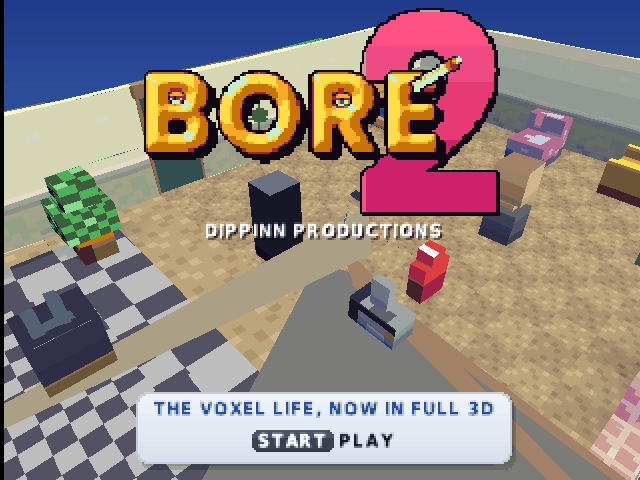
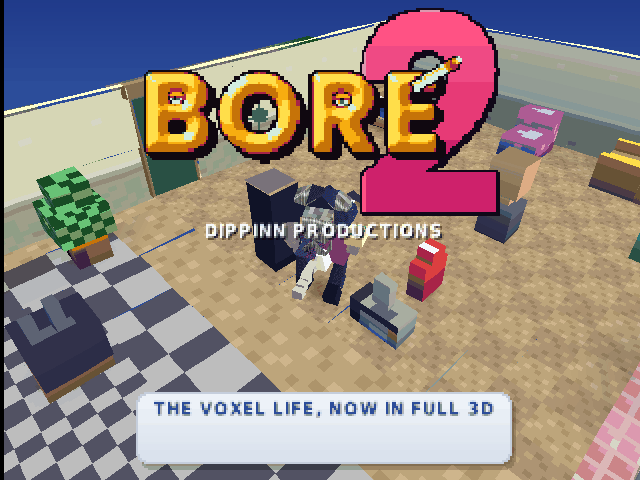
Dreamcast: SAN BOREAS matches the PS1 (side by side with DuckStation); fixed the GTE three-vertex load, the PS1 big-triangle rule, sprite-cell set-mask, GTE-exact ApplyMatrixLV/CompMatrixLV; RAM log dump in dcrun
Claude-Session: https://claude.ai/code/session_01HmRg38Ho1eHKsYp7LCd8R6

diff --git a/ports/dreamcast/dc_gpu.c b/ports/dreamcast/dc_gpu.c
@@ -13,6 +13,14 @@
 #include <psxgpu.h>
 
 #define SCALE 2.0f
+// a text log in RAM (tools/dcrun.c dumps the RAM: find "DCLOG{"), for looking at what the GPU was given
+char dc_log[65536] = "DCLOG{"; static int dc_log_n = 6;
+#include <stdarg.h>
+void dc_logf(const char *f, ...) { if (dc_log_n > 65000) return; va_list a; va_start(a, f); dc_log_n += vsnprintf(dc_log + dc_log_n, 65530 - dc_log_n, f, a); va_end(a); }
+#ifndef DC_DUMP
+#define DC_DUMP -1
+#endif
+int dc_dump_frame = DC_DUMP;   // (a test build: -DDC_DUMP=N logs frame N's big polygons)
 static uint16_t vram[512][1024] __attribute__((aligned(32)));
 static uint32_t page_gen[2][16];          // bumped when VRAM under a 64x256 page changes
 
@@ -110,7 +118,7 @@ int dc_prims_last;
 
 // drawing state (the GP0 E1..E6 commands and the DRAWENV)
 static DRAWENV cur_env; static int env_set;
-static int dm_tpage = 0x0a, ofs_x, ofs_y, off_screen;
+static int dm_tpage = 0x0a, ofs_x, ofs_y, off_screen, mask_set;
 static int area_x0, area_y0, area_x1 = 1023, area_y1 = 511;
 static uint32_t bg_rgb;
 
@@ -125,8 +133,22 @@ static inline uint32_t flat_col(uint32_t c) { return 0xff000000u | (c & 255) << 
 
 // the software rasteriser for drawing away from the screen (sprite cells): flat / gouraud / textured triangles into the VRAM copy
 static void sw_tri(const int *x, const int *y, const uint32_t *c, const int *u, const int *v, int textured, int tpage, int clut, int raw, int semi);
+static inline int tri_ok(int x0, int y0, int x1, int y1, int x2, int y2) {
+    int mnx = x0 < x1 ? (x0 < x2 ? x0 : x2) : (x1 < x2 ? x1 : x2), mxx = x0 > x1 ? (x0 > x2 ? x0 : x2) : (x1 > x2 ? x1 : x2);
+    int mny = y0 < y1 ? (y0 < y2 ? y0 : y2) : (y1 < y2 ? y1 : y2), mxy = y0 > y1 ? (y0 > y2 ? y0 : y2) : (y1 > y2 ? y1 : y2);
+    return mxx - mnx < 1024 && mxy - mny < 512;
+}
 
 static void emit(int n, const int *x, const int *y, const uint32_t *col, const int *u, const int *v, int textured, int tpage, int clut, int raw, int semi, int abr) {
+    if (n == 4 && !off_screen) {   // the PS1 GPU skips a triangle wider than 1023 or taller than 511 pixels: a quad is two of them
+        int a = tri_ok(x[0], y[0], x[1], y[1], x[2], y[2]), b = tri_ok(x[1], y[1], x[2], y[2], x[3], y[3]);
+        if (!a && !b) return;
+        if (!a || !b) {
+            int o = a ? 0 : 1, x3[3], y3[3], u3[3], v3[3]; uint32_t c3[3];
+            for (int k = 0; k < 3; k++) { x3[k] = x[o + k]; y3[k] = y[o + k]; c3[k] = col[o + k]; if (textured) { u3[k] = u[o + k]; v3[k] = v[o + k]; } }
+            emit(3, x3, y3, c3, u3, v3, textured, tpage, clut, raw, semi, abr); return;
+        }
+    } else if (n == 3 && !off_screen && !tri_ok(x[0], y[0], x[1], y[1], x[2], y[2])) return;
     if (off_screen) {   // into VRAM (people sprites): two triangles
         int xi[3], yi[3], ui[3], vi[3]; uint32_t ci[3];
         for (int t = 0; t < n - 2; t++) for (int k = 0; k < 3; k++) {
@@ -158,6 +180,7 @@ static void emit(int n, const int *x, const int *y, const uint32_t *col, const i
 }
 
 static void do_poly(const uint32_t *w) {
+    extern int dc_frames;
     uint32_t cmd = w[0] >> 24; int quad = cmd & 8, tex = cmd & 4, gour = cmd & 16, semi = cmd & 2, raw = cmd & 1;
     int n = quad ? 4 : 3, x[4], y[4], u[4], v[4]; uint32_t c[4]; int tpage = dm_tpage, clut = 0, i = 0;
     for (int k = 0; k < n; k++) {
@@ -168,6 +191,10 @@ static void do_poly(const uint32_t *w) {
     }
     if (!gour) for (int k = 1; k < n; k++) c[k] = c[0];
     if (tex) dm_tpage = (dm_tpage & ~0x1ff) | (tpage & 0x1ff);   // (a textured polygon sets the draw mode's page too, as on the PS1)
+    if (dc_frames == dc_dump_frame && !off_screen) {
+        int mnx = 9999, mxx = -9999; for (int k = 0; k < n; k++) { if (x[k] < mnx) mnx = x[k]; if (x[k] > mxx) mxx = x[k]; }
+        if (mxx - mnx > 120) dc_logf("P%02x c%06x tp%04x cl%04x (%d,%d)(%d,%d)(%d,%d)(%d,%d)\n", (int)cmd, (int)(w[0] & 0xffffff), tpage, clut, x[0], y[0], x[1], y[1], x[2], y[2], n > 3 ? x[3] : 0, n > 3 ? y[3] : 0);
+    }
     emit(n, x, y, c, u, v, tex != 0, tpage, clut, raw != 0, semi != 0, (tpage >> 5) & 3);
 }
 static void do_rect(const uint32_t *w) {
@@ -236,6 +263,7 @@ static void run_packet(const uint32_t *w, int n) {
             off_screen = !(env_set && area_x0 == cur_env.clip.x && area_y0 == cur_env.clip.y);
         } else if (cmd == 0xe4) { area_x1 = w[i] & 0x3ff; area_y1 = (w[i] >> 10) & 0x3ff; }
         else if (cmd == 0xe5) { ofs_x = sx11(w[i]) - (off_screen ? 0 : 0); ofs_y = sx11(w[i] >> 11); if (!off_screen) { ofs_x -= area_x0; ofs_y -= area_y0; ofs_x += area_x0; ofs_y += area_y0; } }
+        else if (cmd == 0xe6) mask_set = w[i] & 1;
         else if (cmd == 0x80) len = 4;
         else if (cmd == 0xa0 || cmd == 0xc0) len = 3;
         i += (int)len;
@@ -311,7 +339,7 @@ int dc_frames;
 int DrawOTag(const uint32_t *ot) {
     dc_gpu_init();
     // a list for the screen (the frame) or one into VRAM (a sprite cell): the frame's starts with the DRAWENV's area
-    off_screen = 0; ofs_x = 0; ofs_y = 0;
+    off_screen = 0; ofs_x = 0; ofs_y = 0; mask_set = 0;
     area_x0 = env_set ? cur_env.clip.x : 0; area_y0 = env_set ? cur_env.clip.y : 0;
     ofs_x = area_x0 + cur_env.ofs[0]; ofs_y = area_y0 + cur_env.ofs[1];
     int frame = 1;
@@ -377,7 +405,7 @@ static void sw_tri(const int *x, const int *y, const uint32_t *c, const int *u, 
                 out = (uint16_t)(tr_ | tg << 5 | tb << 10 | (t & 0x8000));
             }
         } else out = (uint16_t)((r >> 3) | (g >> 3) << 5 | (b >> 3) << 10);
-        vram[py & 511][px & 1023] = out | 0x8000;   // (the cells draw with set-mask on: every pixel of the person is solid)
+        vram[py & 511][px & 1023] = mask_set ? (uint16_t)(out | 0x8000) : out;   // (E6 set-mask: the person's pixels are made solid; the cell's clear is not)
     }
     vram_dirty(minx, miny, maxx - minx + 1, maxy - miny + 1);
 }

diff --git a/tools/dcrun.c b/tools/dcrun.c
@@ -112,6 +112,7 @@ static void (*p_retro_set_audio_sample)(retro_audio_sample_t), (*p_retro_set_aud
 static void (*p_retro_set_input_poll)(retro_input_poll_t), (*p_retro_set_input_state)(retro_input_state_t);
 static bool (*p_retro_load_game)(const struct retro_game_info *);
 static void (*p_retro_get_system_av_info)(struct retro_system_av_info *);
+static void *(*p_retro_get_memory_data)(unsigned); static size_t (*p_retro_get_memory_size)(unsigned);
 
 static int frame_no, want_shot; static char outprefix[512]; static int held_until[16];
 static int shots_at[1024], nshots; static const char *sysdir = "/tmp/dcsys";
@@ -206,7 +207,7 @@ int main(int argc, char **argv) {
     if (!h) { fprintf(stderr, "dlopen: %s\n", dlerror()); return 1; }
 #define L(n) *(void **)(&p_##n) = dlsym(h, #n)
     L(retro_init); L(retro_deinit); L(retro_set_environment); L(retro_set_video_refresh); L(retro_set_audio_sample);
-    L(retro_set_audio_sample_batch); L(retro_set_input_poll); L(retro_set_input_state); L(retro_load_game); L(retro_run); L(retro_get_system_av_info);
+    L(retro_set_audio_sample_batch); L(retro_set_input_poll); L(retro_set_input_state); L(retro_load_game); L(retro_run); L(retro_get_system_av_info); L(retro_get_memory_data); L(retro_get_memory_size);
     int frames = atoi(argv[3]); strncpy(outprefix, argv[4], sizeof outprefix - 1);
     typedef struct { int frame, btn; } Ev; static Ev evs[4096]; int nev = 0;
     if (argc > 5) {
@@ -244,6 +245,11 @@ int main(int argc, char **argv) {
     }
     for (int k = 0; k < 8 && want_shot; k++) { frame_no++; p_retro_run(); }
     fprintf(stderr, "frames drawn: %d\n", frames_seen);
+    if (p_retro_get_memory_data) {   // the Dreamcast's 16 MB at the end (<prefix>_ram.bin): the port leaves a text log in it (dc_log)
+        void *ram = p_retro_get_memory_data(RETRO_MEMORY_SYSTEM_RAM); size_t n = p_retro_get_memory_size(RETRO_MEMORY_SYSTEM_RAM);
+        char rp[600]; snprintf(rp, sizeof rp, "%s_ram.bin", outprefix); FILE *f = (ram && n) ? fopen(rp, "wb") : 0;
+        if (f) { fwrite(ram, 1, n, f); fclose(f); fprintf(stderr, "ram %zu bytes -> %s\n", n, rp); }
+    }
     if (audio_out) fclose(audio_out);
     _exit(0);   // (the core's threads and the GL context are not worth a clean shutdown here)
 }

diff --git a/ports/dreamcast/dc_psx.c b/ports/dreamcast/dc_psx.c
@@ -72,18 +72,23 @@ MATRIX *RotMatrix(SVECTOR *r, MATRIX *m) {
     return m;
 }
 MATRIX *TransMatrix(MATRIX *m, VECTOR *r) { m->t[0] = r->vx; m->t[1] = r->vy; m->t[2] = r->vz; return m; }
+static inline int32_t sat16_(int64_t v) { return v < -32768 ? -32768 : v > 32767 ? 32767 : (int32_t)v; }
 VECTOR *ApplyMatrixLV(MATRIX *m, VECTOR *v0, VECTOR *v1) {
-    int64_t x = v0->vx, y = v0->vy, z = v0->vz; VECTOR o;
-    o.vx = (int32_t)((m->m[0][0] * x + m->m[0][1] * y + m->m[0][2] * z) >> 12);
-    o.vy = (int32_t)((m->m[1][0] * x + m->m[1][1] * y + m->m[1][2] * z) >> 12);
-    o.vz = (int32_t)((m->m[2][0] * x + m->m[2][1] * y + m->m[2][2] * z) >> 12);
+    // as the SDK does it on the GTE: the vector goes in through IR1..3 (16 bits) and comes out of them (saturated)
+    int64_t x = (int16_t)v0->vx, y = (int16_t)v0->vy, z = (int16_t)v0->vz; VECTOR o;
+    o.vx = sat16_((m->m[0][0] * x + m->m[0][1] * y + m->m[0][2] * z) >> 12);
+    o.vy = sat16_((m->m[1][0] * x + m->m[1][1] * y + m->m[1][2] * z) >> 12);
+    o.vz = sat16_((m->m[2][0] * x + m->m[2][1] * y + m->m[2][2] * z) >> 12);
     v1->vx = o.vx; v1->vy = o.vy; v1->vz = o.vz;
     return v1;
 }
+static inline int32_t sat16(int64_t v) { return v < -32768 ? -32768 : v > 32767 ? 32767 : (int32_t)v; }
 MATRIX *CompMatrixLV(MATRIX *m0, MATRIX *m1, MATRIX *m2) {
-    VECTOR t = { m1->t[0], m1->t[1], m1->t[2] }, o;
-    ApplyMatrixLV(m0, &t, &o);
-    int32_t t0 = o.vx + m0->t[0], t1 = o.vy + m0->t[1], t2 = o.vz + m0->t[2];
+    // as the SDK does it on the GTE: m1's translation goes in through IR1..3 (16 bits), comes out of IR1..3 (saturated to 16 bits)
+    int64_t ix = (int16_t)m1->t[0], iy = (int16_t)m1->t[1], iz = (int16_t)m1->t[2];
+    int32_t t0 = sat16((((int64_t)m0->t[0] << 12) + m0->m[0][0] * ix + m0->m[0][1] * iy + m0->m[0][2] * iz) >> 12);
+    int32_t t1 = sat16((((int64_t)m0->t[1] << 12) + m0->m[1][0] * ix + m0->m[1][1] * iy + m0->m[1][2] * iz) >> 12);
+    int32_t t2 = sat16((((int64_t)m0->t[2] << 12) + m0->m[2][0] * ix + m0->m[2][1] * iy + m0->m[2][2] * iz) >> 12);
     MulMatrix0(m0, m1, m2);
     m2->t[0] = t0; m2->t[1] = t1; m2->t[2] = t2;
     return m2;

diff --git a/ports/dreamcast/psx/inline_c.h b/ports/dreamcast/psx/inline_c.h
@@ -25,7 +25,7 @@ void dc_gte_rtps(int i);             /* one vertex V[i] through the pipeline (pu
 #define gte_ldv1(p)       do { const int16_t *s_ = (const int16_t *)(p); dc_gte.v[1][0] = s_[0]; dc_gte.v[1][1] = s_[1]; dc_gte.v[1][2] = s_[2]; } while (0)
 #define gte_ldv2(p)       do { const int16_t *s_ = (const int16_t *)(p); dc_gte.v[2][0] = s_[0]; dc_gte.v[2][1] = s_[1]; dc_gte.v[2][2] = s_[2]; } while (0)
 #define gte_ldv3(a, b, c) do { gte_ldv0(a); gte_ldv1(b); gte_ldv2(c); } while (0)
-#define gte_ldv3c(p)      do { const int16_t *s_ = (const int16_t *)(p); gte_ldv0(s_); gte_ldv1(s_ + 4); gte_ldv2(s_ + 8); } while (0)
+#define gte_ldv3c(p)      do { const int16_t *c3_ = (const int16_t *)(p); gte_ldv0(c3_); gte_ldv1(c3_ + 4); gte_ldv2(c3_ + 8); } while (0)
 
 #define gte_rtps()  dc_gte_rtps(0)
 #define gte_rtpt()  do { dc_gte_rtps(0); dc_gte_rtps(1); dc_gte_rtps(2); } while (0)

diff --git a/docs/DREAMCAST.md b/docs/DREAMCAST.md
@@ -1,6 +1,6 @@
 # Dreamcast port: where it stands
 
-Status: **the real PS1 game code runs** (main.c, world.c, voxel.c, the UI...) on a Dreamcast platform layer; the PS1 title shows in flycast. The PS1 build is untouched (no file under `src/` changed; `ports/dreamcast` is not in `CMakeLists.txt`). Build and emulator steps: `ports/dreamcast/README.md`.
+Status: **the real PS1 game code runs** (main.c, world.c, voxel.c, the UI...) on a Dreamcast platform layer; the PS1 title shows in flycast. The PS1 build is unchanged: `src/` edits are only under `#ifdef BORE_DC`, checked with `ports/dreamcast/ps1_check.sh` (the same Release image before and after). Build and emulator steps: `ports/dreamcast/README.md`.
 
 ## How it works now (the real game)
 The Dreamcast build compiles the PS1 game's own sources (the CMakeLists file list, overlays linked in) and swaps only the platform:
@@ -8,10 +8,26 @@ The Dreamcast build compiles the PS1 game's own sources (the CMakeLists file lis
 - `dc_psx.c`: the GTE library (RotMatrix, CompMatrixLV, ApplyMatrixLV, isin/icos...). `dc_gpu.c`: the PS1 GPU: VRAM kept in RAM, DrawOTag walks the ordering table and sends every primitive to the PowerVR in the same order (a depth step per primitive), 4/8/15-bit texture pages converted to PVR textures, the 4 blend modes, sprite cells rasterised into VRAM. `dc_plat.c`: the maple pad as a PS1 pad, overlays linked in, RAM as the 8 MB PS1, sound and memory card silent for now.
 - `src/` edits, all `#ifdef BORE_DC` (atlas.c VRAM upload, gfx.c/gfx.h profiler clock, world.c scratchpad, main.c stack paint). `ports/dreamcast/ps1_check.sh` builds the PS1 Release elf: `_end` 0x801fc2e4 and the image sha1 464525f8... are the same before and after.
 
-## What works (flycast, HLE BIOS, 640x480)
-| Stage | Screenshot |
-|---|---|
-| The real PS1 title: the lounge, the logo, the tagline card | `docs/dc_title.png` |
+## What works (flycast, HLE BIOS, 640x480) - side by side with the PS1 (DuckStation, 8 MB)
+Left: the PS1 build in DuckStation. Right: the same code on the Dreamcast (flycast).
+
+Title (the camera turns with time, and the Bore is rolled at random, so the two are a few seconds apart):
+![title](dc_vs_ps1_title.png)
+
+SAN BOREAS, the same moment in both: a test build (`AUTO_CITY=1 AB_LOCK4=1 AB_FREEZE=150`, the PS1's own test hooks) starts a life
+in the city with the same seed and freezes it after 150 life frames, so both show MON 08:30 at the same crossing:
+![city](dc_vs_ps1_city.png)
+
+What still differs: the PS1 dithers (the Dreamcast draws 16/32-bit without it), the bus shelters' roofs lose their blue tops
+(a semi-transparent texture rule still to match), hair colours are a little darker. No sound yet; no memory card yet.
+
+How the city shot was taken: PS1 `cmake ... -DCMAKE_C_FLAGS="-DAUTO_CITY=1 -DAB_LOCK4=1 -DAB_FREEZE=150"`, `ninja iso_lite`,
+`DS8MB=1 test/ds.sh bore2_lite.cue NAME 3500 script` (shot at 3400). Dreamcast `make AUTO="AUTO_CITY=1 -DAB_LOCK4=1 -DAB_FREEZE=150"`,
+`dcrun flycast_libretro.so bore2_dc.elf 1000 PREFIX` (shot at the end).
+
+Bugs found on the way (fixed): a shadowed variable in the GTE's three-vertex load (people exploded into huge polygons),
+the PS1 GPU's rule that skips triangles wider than 1023 or taller than 511 pixels, the sprite cells' set-mask bit, and
+ApplyMatrixLV / CompMatrixLV now pass vectors through the GTE's 16-bit IR registers as the SDK does.
 
 Pad mapping: A = CROSS, B = CIRCLE, X = SQUARE, Y = TRIANGLE, triggers = L1/R1 (both = L2+R2), START+both triggers = SELECT.
 
